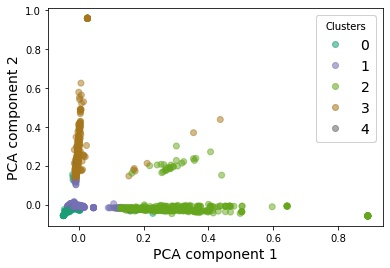
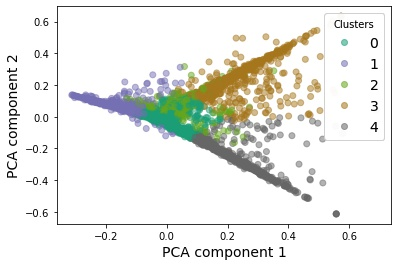
topic modeling results improved

diff --git a/arxiv.html b/arxiv.html
@@ -188,40 +188,38 @@ We can also look at the change in popularity of some key words/phrases over the 
             
 <h1>Topic modeling </h1>
 <p>
-    For topic identification, I have implemented unsupervised machine learning algorithms such as <i>k</i>-means clustering and the Latent Dirichlet Allocation or LDA. In <i>k</i>-means clustering, each document is viewed as a multi-dimensional vector of the matrix. Two documents are similar to one another if their corresponding vectors are close to one another or, in other words, if the difference of their vectors is small in length. We can use this common clustering method to group our documents together to find topics of research in Astophysics (astro-ph). 
+    For topic identification, I implemented unsupervised machine learning algorithms such as <i>k</i>-means clustering and the Latent Dirichlet Allocation or LDA. In <i>k</i>-means clustering, each document is viewed as a multi-dimensional vector of the matrix. Two documents are similar to one another if their corresponding vectors are close to one another or, in other words, if the difference of their vectors is small in length. We can use this common clustering method to group our documents together to find topics of research in Astophysics (astro-ph). 
     </p>
     <p>
     In LDA, each word in a document is assigned a topic. Initially, this assignment is done randomly. To improve upon the assignment of topics to each word, we look at the probability of a word, <i>w</i>, belonging to a particular topic, <i>t</i>. This is calculated by making a subsample of all documents that are classified as a particular topic <i>t</i> and the number of documents in that subsample that contains the word <i>w</i>. The LDA then goes through each document in the corpus and calculates the probability that a topic <i>t</i> is contained in a document <i>d</i>. These two probabilities assign a new probability to every word in the document of belonging to a topic. Repeating this process many times gives us an equilibrium value of the probabilities associated with each word and document.
 </p>
-<p>            
-            Below is a comparison of the sub-topics I identified using <i>k</i>-means clustering and LDA. I used 13,600 publication titles from the Astrophysics submissions of the year 2020.    
-            </p>           
+<p>         
+    Let us first begin with the simplest clustering algorithm, the <i>k</i>-means. After cleaning up the data, the <i>k</i>-means clusters can be labelled as:
+</p>           
+  <div class="row">
+        <div class="col-sm-20 col-sm-offset-1 col-lg-6">
 <table >
   <tr>
     <th><i>k</i>-means clustering</th>
-    <th>LDA</th>
   </tr>
   <tr>
-<td>Fast radio bursts, neutron stars</td>
-<td>Fast radio bursts, compact objects</td>
+<td>Stellar & Planetary physics</td>
 </tr>
 <tr>    
-<td>Dark energy</td>
-<td>Supermassive black holes</td>
+<td>Solar physics</td>
 </tr>
 <tr>    
-<td>Black holes</td>
-<td>Black holes and gravitational waves</td>
+<td>Gravitational waves and Neutron stars</td>
 </tr>
 <tr>    
-<td>Dark matter</td>
-<td>Primordial black holes</td>
+<td>Gravitational waves and Black holes</td>
 </tr>
 <tr>    
-<td>Star formation</td>
-<td>Dark energy</td>
+<td>Dark Matter</td>
 </tr>
 </table>
+</div>
+    </div>
 <br>
             <h2> Visualizations</h2> 
             <p> Let's look at a few visualizations from the clustering algorithms to get more insights from the data.</p>
@@ -230,33 +228,97 @@ We can also look at the change in popularity of some key words/phrases over the 
             <img src="./static/folder/arxiv/kmc_wordcloud.jpg" alt="" style="width:120%" style="padding-bottom:5em;"/>
             <p> The two wordclouds above belong to the clusters from the <i>k</i>-means algorithm. Similar wordclouds can be made for all the other clusters for both algorithms. More details have been provided in the Python notebook in GitHub.</p>
             <h3> Cluster size </h3>
-  <div class="row">
-        <div class="col-sm-20 col-sm-offset-1 col-lg-6">
             <img src="./static/folder/arxiv/k_means_cluster_size.jpg" alt="" style="width:120%" style="padding-bottom:5em;"/>
-      </div>
-
-  <div class="col-sm-20 col-sm-offset-1 col-lg-6">
-            <img src="./static/folder/arxiv/lda_cluster_size.jpg" alt="" style="width:120%" style="padding-bottom:5em;"/>
-      </div>
-     </div>     
             <p>
-                We see that in the <i>k</i>-means approach, <strong>Dark energy</strong> is the largest cluster. This seems to be consistent with my personal experience of going through the arXiv database in the past few years. On the other hand, the LDA returns <strong>Primordial black holes</strong> as the largest cluster which seems a bit unintuitive. This perhaps points to the need for better word vectorization in the LDA approach. Since the cluster sizes of the <i>k</i>-means approach are reasonable, we will look only at the <i>k</i>-means approach below.    
+                We see that in the <i>k</i>-means approach, <strong>Stellar & Planetary physics</strong> is the largest cluster. This seems to be consistent with my personal experience of going through the arXiv database in the past few years. 
             </p>    
             <h3> Word Frequencies </h3>
             <p> Next, we can look at the number of occurences in each cluster of some of the most frequent words in the corpus. This visualization could suggest some additional stop words that we might want to add (and then reprocess the resulting new bag of words matrix) to make our clustering better. </p>
-            <img src="./static/folder/arxiv/k_means_word_freq.jpg" alt="" style="width:120%" style="padding-bottom:5em;"/>
-            <p> For example, dark matter 'halo' and 'halos' appear to be two different words. This indicates we must go back to the lemmatization step and replace all words 'halos' with 'halo'.</p>
+            <img src="./static/folder/arxiv/k_means_word_freq_1.jpg" alt="" style="width:120%" style="padding-bottom:5em;"/>
+            <img src="./static/folder/arxiv/k_means_word_freq_2.jpg" alt="" style="width:120%" style="padding-bottom:5em;"/>
+            
+            <h3> Number of Clusters </h3>
+            <p> To verify that 5 is a reasonable assumption of the number of clusters, let's look at the <i>inertia</i> plot. The inertia value on the y-axis is related to the average distance between the cluster center and the data points. The lower the inertia the better the number of clusters.</p>
+            <img src="./static/folder/arxiv/k_means_cluster_number.jpg" alt="" style="width:120%" style="padding-bottom:5em;"/>
+            <p>One can notice that the inertia marginally tapers at 4. The improvements in inertia become a little gradual beyond that value. Therfore, 5 is a good choice for the number of clusters.</p>
             
             <h3> Low-dimensional representation </h3>
             <p> We can use PCA to project the high-dimensional vector representation of our text corpus into a lower-dimensional space. This could give us an indication of the separation or overlapping between the clusters.</p>
             <img src="./static/folder/arxiv/pca.jpg" alt="" style="width:120%" style="padding-bottom:5em;"/>
-            <p> We see that some clusters, eg. Cluster 2 (green, 'Black Holes') and 3 (brown, 'Dark Matter') are reasonably well-defined: most of the documents belonging to these clusters lie along one axis. There is some overlap which is to be expected. There is some mixing in the other clusters, e.g. Clusters 1 (purple, 'Dark Energy') and 2 (green), possibly because of the limitation of the projection down into a two-dimensional space.</p>
+            <p> We see that some clusters, eg. Cluster 3 (brown) and 4 (gray) are relatively well-defined: most of the documents belonging to these clusters lie along one axis. There is some mixing in the other clusters, e.g. Clusters 0 (blue) and 2 (green), possibly because of the limitation of the projection down into a two-dimensional space. Alternatively, this could also mean that there is overlap between the clusters. There is reason that this might be true because neutron stars are the end state of many stars. Therefore Cluster 0 (Stellar & Planetary physics) and Cluster 2 (Gravitational Waves and Neutron stars) are related.</p>
+                    
+            <h2> Latent Dirichlet Allocation or LDA </h2>
+            <p> One way to improve on our current clustering method is to predict the probability with which a document is assigned a cluster. LDA is one such algorithm which does that. After pre-processing the data and implementing the LDA algorithm from the <code>gensim</code> library, I arrived at the following topics:</p>
+              <div class="row">
+        <div class="col-sm-20 col-sm-offset-1 col-lg-6">
+<table >
+  <tr>
+    <th>LDA topics</th>
+  </tr>
+  <tr>
+<td>Observations from Hubble Space Telescope</td>
+</tr>
+<tr>    
+<td>Galactic center</td>
+</tr>
+<tr>    
+<td>Dark Matter & Baryons</td>
+</tr>
+<tr>    
+<td>Stellar Physics</td>
+</tr>
+<tr>    
+<td>Galaxy surveys & galactic physics</td>
+</tr>
+<tr>    
+<td>Gravitational wave sources</td>
+</tr>
+<tr>    
+<td>Cosmic Microwave Background or CMB</td>
+</tr>
+</table>
+</div>
+    </div>
+            <p> We will see in a moment why 7 is the appropriate number of clusters for LDA.</p>
+            <h3> Cluster Size</h3>
+            For the LDA, the cluster/topic sizes were:
+            <img src="./static/folder/arxiv/lda_cluster_size.jpg" alt="" style="width:120%" style="padding-bottom:5em;"/>
             
+            <h3> Word Frequencies </h3>
+            <img src="./static/folder/arxiv/lda_word_freq_1.jpg" alt="" style="width:120%" style="padding-bottom:5em;"/>
+            
+            <h3> Number of Topics: Coherence Score </h3>
+            <p> The coherence score captures the semantic information of the document by looking at the co-occurence of pairs of words in the document. It can take a value between -1 (worst) and 1 (best). I calculated the coherence scores for different number of topics. I then plotted the percentage improvement in the coherence score with increasing number of topics: </p>
+            <img src="./static/folder/arxiv/lda_coherence_improv.jpg" alt="" style="width:120%" style="padding-bottom:5em;"/>
+            <p> The biggest improvement in coherence score, 15%, occurs when the number of topics increases to four. However, from my experience, it seems like a low number. The next biggest improvement occurs when there are 7 topics. Therefore, the initial assumption of 7 topics turns out to be reasonable.</p>       
+            
+            <h2> Example </h2>
+                <p> Finally, let us take a look at an abstract/document from the database/corpus and compare the topics it was assigned to by the two different methods. </p>
+                <p><mark> We present an upgrade of the OGLE Collection of RR Lyrae stars in the
+                    Galactic bulge and disk. The size of our sample has been doubled and reached 78
+                    350 RR Lyr variables, of which 56 508 are fundamental-mode pulsators (RRab
+                    stars), 21 321 pulsate solely in the first-overtone (RRc stars), 458 are
+                    classical double-mode pulsators (RRd stars), and 63 are anomalous RRd variables
+                    (including five triple-mode pulsators). For all the newly identified RR Lyr
+                    stars, we publish time-series photometry obtained during the OGLE Galaxy
+                    Variability Survey.
+                    We present the spatial distribution of RR Lyr stars on the sky, provide a
+                    list of globular clusters hosting RR Lyr variables, and discuss the Petersen
+                    diagram for multimode pulsators. We find new RRd stars belonging to a compact
+                    group in the Petersen diagram (with period ratios P_1O/P_F = 0.74 and
+                    fundamental-mode periods P_F = 0.44 d) and we show that their spatial
+                                        distribution is roughly spherically symmetrical around the Milky Way center. </mark></p>
+            
+            <p> The <i>k</i>-means clustering method assigns the document to the <i>Stellar & Planetary physics</i> cluster. This is a fair result given that the abstract contains the term 'stars'. </p>
+            
+            <p> The one shortcoming of the <i>k</i>-means clustering method is that it strictly categorizes the documents. LDA is advantageous since it gives us the probabilities of the topics for each document. For the above abstract, the 2 top-most topics are <i>Galactic center</i> with probability of 0.75 and <i>Stellar Physics</i> with probability of 0.08.</p>
             <h2> Concluding Remarks </h2>
             <ol> 
-                <li> We saw that in a broad field such as Astrophysics, there are some distinct sub topics: black holes, dark energy, dark matter, fast radio bursts, neutron stars and star formation. One can select one topic and look at it more closely by looking at the publications for this topic.</li> 
-                    
-                <li>We also identified the most prolific topic within astrophysics - Dark energy indicating how exciting and important the problem is. </li>
+                <li> We saw that in a broad field such as Astrophysics, there are some distinct sub topics for example: stellar and planetary physics, gravitational waves, dark matter and cosmic microwave background. </li> 
+                
+                <li> For the <i>k</i>-means clustering, 5 is an appropriate number of clusters. For LDA, which takes into account the semantic structure of the text, the appropriate number of topics is 7.
+                
+                <li> We can also look at the multidisciplinary nature of the articles through LDA. </li>
             </ol>
       </div>
     </div>         
